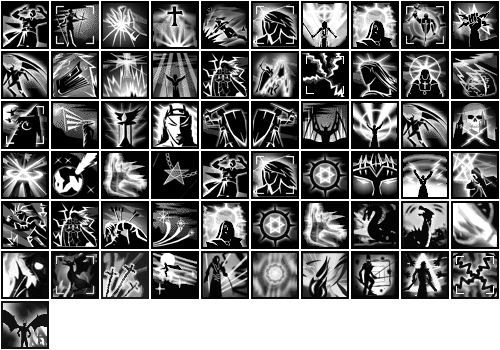
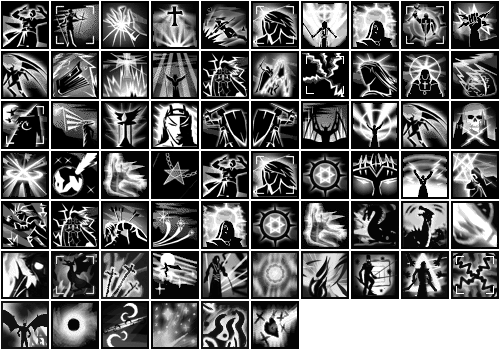
Updated skillplanner, about page

Changed region(s): [[0.09, 0.8571, 0.6, 1.0]]

diff --git a/MXLU_vXVc_Doc_v2.95/skillplanner/skills.js b/MXLU_vXVc_Doc_v2.95/skillplanner/skills.js
@@ -9,7 +9,7 @@
 	skillicons[3] = ["AncientBlood", "BearClaw", "BearStance", "BerserkFury", "Bloodhatred", "BloodHatred", "DefenderSpirit", "EagleDive", "EagleStance", "Earthquake", "Fortress", "GreaterManifestations", "GuardianSpirit", "GuardTower", "HawkTalons", "Immortal", "KrakenStance", "LionStance", "MountainKing", "NephalemWeapons", "Overkill", "Predator", "ProtectorSpirit", "Rebound", "Runemaster", "ScreamingEagle", "ShamanicTrance", "ShamansPath", "ShowerofRocks", "SnakeStance", "SpiritGuide", "SpiritWalk", "Stampede", "Stormblast", "Thundergod", "ThunderSlam", "TitanStrike", "WolfCompanion", "WolfStance", "Earthquake", "Stormblast", "Iceburst", "IronSpiral", "Deathgaze", "Daedalus", "Windform", ""]; //2+5 new
 	skillicons[4] = ["Blindside", "Brambles", "CallLeprechaun", "CallScavengers", "Cascade", "Charm", "CircleofLife", "CullingoftheHerd", "Cyclone", "Dominate", "EggTrap", "Elemental", "ElfinArrows", "ElfinWeapons", "Elvensong", "FaerieFire", "Ferocity", "FireFountain", "ForceofNature", "FreezingGale", "GammaField", "Goodberry", "Hailstorm", "Havoc", "HuntingBanshee", "IdolOfScosglen", "KillerInstinct", "LaughingGhost", "Lifeshield", "MarkoftheWild", "Mythal", "NovaShot", "PaganRites", "PlagueAvatar", "PoisonFlash", "Pummel", "QuillStorm", "RainofFire", "Rampage", "ShrineofExtinction", "SporeShot", "SummonAcidFiends", "ThornWall", "ThrilloftheHunt", "ToothandClaw", "TrapRatForm", "TreewardenForm", "Tremor", "Wildfire", "FreezingGale", "PoisonFlash", "TreewardenForm", "WerewolfForm", "ManaPulse", "Harbinger", "FeedthePack", "TwistedClaw", "Mythal", ""]; //2+7 new
 	skillicons[5] = ["AngelofDeath", "Bane", "BendtheShadows", "BendTheShadows", "BlackMass", "BloodTideTotem", "Buckshot", "Deathlord", "DeathsFuryTotem", "Deathstrike", "DeathWard", "DragonfireOil", "ElementalTotem", "Embalming", "ExplodingTotem", "Famine", "FireheartTotem", "FlametailShot", "FragmentationShot", "FrostclawTotem", "Graveyard", "HowlingTotem", "LicheForm", "ManaTideTotem", "Massacre", "NecromanticTrance", "OathbreakerTotem", "Parasite", "RathmasChosen", "Sacrifices", "Soulshatter", "StormeyeTotem", "SummonDarklings", "SummonJinn", "SummonLamia", "SummonRampagor", "SummonShadows", "SummonVeilKing", "SummonVoidArchon", "TalonsHold", "TotemboundGuardian", "TotemicMastery", "UnholyArmor", "UnholyPrayer", "VoodooShot", "Widowmaker", "Boneyard", "FuneralPyre", "RottingFlesh", "Nightwalker", "Pestilence", ""]; //0+5 new
-	skillicons[6] = ["BlackSleep", "BlessedLife", "BloodThorns", "Brimstone", "Colosseum", "DarkKing", "DivineApparition", "EdictofForbiddance", "GlitteringRegalia", "Hammerstrike", "HolyArmor", "HolyInsanity", "HolyTrap", "Hymn", "Judgement", "Lemures", "LightandShadow", "Lionheart", "Merkabah", "MindFlay", "Plague", "Punisher", "Rapture", "Resurrect", "Retaliate", "Retribute", "RingofLight", "RisingDawn", "SacredArmor", "Scourge", "SearingGlow", "SearingOrb", "Shadowfiends", "Slayer", "Sovereignty", "Stormlord", "Sunstorm", "Superbeast", "SymphonyOfDestruction", "TaintedBlood", "TerrorStrike", "VesselofJudgement", "Vindicate", "Wrath", "BlazingFury", "Winterstorm", "BlackSleep", "DragonOath", "Dragonshout", "Burnout", "Demonrend", "DevaKing", "VesselofRetribution", "SacredArmor", "Hoplite", "Dragonshout", "Burnout", "Demonrend", "Euphoria", "LifeandDeath", "Demiurge", ""]; //6+9 new
+	skillicons[6] = ["BlackSleep", "BlessedLife", "BloodThorns", "Brimstone", "Colosseum", "DarkKing", "DivineApparition", "EdictofForbiddance", "GlitteringRegalia", "Hammerstrike", "HolyArmor", "HolyInsanity", "HolyTrap", "Hymn", "Judgement", "Lemures", "LightandShadow", "Lionheart", "Merkabah", "MindFlay", "Plague", "Punisher", "Rapture", "Resurrect", "Retaliate", "Retribute", "RingofLight", "RisingDawn", "SacredArmor", "Scourge", "SearingGlow", "SearingOrb", "Shadowfiends", "Slayer", "Sovereignty", "Stormlord", "Sunstorm", "Superbeast", "SymphonyOfDestruction", "TaintedBlood", "TerrorStrike", "VesselofJudgement", "Vindicate", "Wrath", "BlazingFury", "Winterstorm", "BlackSleep", "DragonOath", "Dragonshout", "Burnout", "Demonrend", "DevaKing", "VesselofRetribution", "SacredArmor", "Hoplite", "Dragonshout", "Burnout", "Demonrend", "Euphoria", "LifeandDeath", "Demiurge", "SolarFlare", "Drakemaw", "FrozenBreath", "DragonWyrms", "Dragonheart", ""]; //6+9 new
 	skillicons[7] = ["Abyss", "ArcaneFury", "ArcaneTorrent", "Baneblade", "Bladestorm", "CarpetofSpiders", "Chronofield", "ColdFear", "DiseasedCattle", "Disintegrate", "Familiar", "FearofFire", "Firedance", "Flamefront", "Flamestrike", "ForceBlast", "ForkedLightning", "FrigidSphere", "FrozenSoul", "FullForce", "Hex", "Hive", "IceLance", "Illumination", "InnerFire", "LightningCascade", "LightningWall", "LivingFlame", "Lorenado", "ManaSweep", "Miasma", "Moonstrike", "MysticBlood", "NovaCharge", "Pyroblast", "ShattertheFlesh", "SnowQueen", "SpiralDance", "Starfire", "StaticOrb", "SummonIceElementals", "SymbolofEsu", "Tempest", "Thunderstone", "TimeField", "VengefulPower", "VenomousSpirit", "WarpArmor", "Wiccaning", "WitchBlood", "Bladestorm", "Chronofield", "WitchBlood", "NovaCharge", "FrigidSphere", "ArcaneTorrent", "Antimass", "Wraithsword", "Fusillade", "SummonBladeSpirits", ""]; //5+5 new
 	var skillnames_199d = new Array();
 	skillnames_199d[1] = new Array("", "Ghost Arrow", "Barrage", "Phalanx", "Trinity", "Wraith Arrow", "Triumphant Strike", "Prowl", "Pounce", "Lioness", "Lightswarm", "Starstreak", "Ricochet", "Enfilade", "Moon Warrior", "Fairy Ring", "Death Ray", "Bloodlust", "Bloodstorm", "Bacchanalia", "Magic Missiles", "Defensive Harmony", "Blood Elementals", "Balance", "Pact of Blood", "Wings of Wrath", "Curare", "Paragon", "Spirit of Vengeance", "Leadership", "War Spirit");
@@ -1964,3 +1964,12 @@
 	skillnames_uxvc[5]=new Array("","Deaths Fury Totem","Frostclaw Totem","Fireheart Totem","Howling Totem","Stormeye Totem","Embalming","Sacrifices","Bend the Shadows","Bane","Talons Hold","Summon Shadows","Summon Rampagor","Summon Lamia","Summon Veil King","Summon Void Archon","Boneyard", "Funeral Pyre", "Rotting Flesh", "Nightwalker", "Pestilence","Massacre","Angel of Death","Famine","Parasite","Deathlord","Buckshot","Flametail Shot","Dragonfire Oil","Fragmentation Shot","Voodoo Shot","Summon Jinn","Rathmas Chosen","Death Ward","Black Mass","Graveyard");
 	skillnames_uxvc[6]=new Array("","Retaliate","Hammerstrike","Merkabah","Lionheart","Colosseum","Vessel of Retribution","Rapture",Array("Solstice and Equinox",16,false),Array("Sacred Armor",2,true), "Hoplite","Dragon Oath",Array("Dragonshout",2,true),Array("Burnout",2,true),Array("Demonrend",2,true),"Deva King","Terror Strike","Lemures",Array("Black Sleep",2,true),"Blood Thorns","Hymn","Vessel of Judgement", "Euphoria", "Life and Death", "Demiurge","Scourge","Tainted Blood","Mind Flay","Symphony Of Destruction","Slayer","Stormlord","Superbeast","Plague","Resurrect","Divine Apparition","Blessed Life");
 	skillnames_uxvc[7]=new Array("","Flamefront","Living Flame","Flamestrike","Pyroblast","Firedance","Forked Lightning","Thunderstone","Tempest","Warp Armor",Array("Nova Charge",2,true),"Shatter the Flesh",Array("Frigid Sphere",2,true),"Snow Queen","Abyss","Summon Ice Elementals","Lorenado","Vengeful Power","Miasma","Carpet of Spiders","Hive",Array("Immersion",11,false),"Familiar",Array("Arcane Torrent",2,true),"Mana Sweep", "Antimass","Moonstrike","Wraithsword", "Fusillade", "Summon Blade Spirits",Array("Bladestorm",2,true),Array("Chronofield",2,true),Array("Witch Blood",2,true),"Baneblade","Symbol of Esu","Force Blast");
+	
+	var skillnames_uxvi=new Array();
+	skillnames_uxvi[1]=new Array("",Array("Sun Strike",2,true),"Barrage","Phalanx","Dragonlore","Wyrmshot","Moonbeam","Ricochet","Enfilade","Moon Queen","Fairy Ring","Takedown","Hyena Strike","Pounce","Lioness",Array("Great Hunt",2,true),"Magic Missiles","Balefire","Bloodstorm","Bacchanalia","Lava Pit", "Thundercrack", "Stormcall", "Hammer of Zerae", "Asterism", "Magnetic Field", "Wild and Free","Summon Fire Elementals","Balance",Array("Ecstatic Frenzy",2,true),"Defensive Harmony","Curare","Paragon","Spirit of Vengeance","Spellbind",Array("War Spirit",2,true));
+	skillnames_uxvi[2]=new Array("",Array("Batstrike",2,true),"Crucify", "Shadow Dancer","Barrier Strike", "Noctule","Scorpion Blade","Storm Crows","Wychwind","Maelstrom5","Broadside", "Backstab","Shadow Refuge","Twin Fang Strike","Laserblade","Hades Gate","Blink","Way of the Spider","Queen of Blades","Way of the Phoenix","Perfect Being", "Obliteration","Shuriken Flurry",Array("Psionic Storm",3,true),"Singularity","Doom","Cluster Mine","Limpet Laser",Array("Electrofield Sentry",2,true),Array("Fireball Sentry",2,true),"Tiefling Form","Beacon","Way of the Gryphon","Phase Bomb","Vampiric Icon","Psychic Scream");
+	skillnames_uxvi[3]=new Array("",Array("Earthquake",2,true), "Iceburst","Thunder Slam","Shower of Rocks",Array("Stormblast",2,true),"Bloodhatred", "Iron Spiral", "Deathgaze", "Daedalus", "Windform","Bear Claw","Stampede","Rebound","Screaming Eagle","Overkill","Guardian Spirit","Defender Spirit","Protector Spirit","Greater Manifestations","Spirit Walk","Wolf Companion","Ancient Blood","Fortress","Spirit Guide","Mountain King","Lion Stance","Snake Stance","Bear Stance","Eagle Stance","Wolf Stance","Nephalem Weapons","Runemaster","Shamanic Trance","Immortal","Thundergod");
+	skillnames_uxvi[4]=new Array("",Array("Treewarden Form",2,true),"Pummel","Wildfire","Circle of Life","Idol Of Scosglen","Trap Rat Form","Quill Storm","Egg Trap","Ferocity","Thorn Wall","Werewolf Form", "Mana Pulse", "Harbinger", "Feed the Pack", "Twisted Claw","Elemental","Hunting Banshee","Pagan Rites","Rain of Fire",Array("Freezing Gale",2,true),Array("Poison Flash",2,true),"Elvensong","Plague Avatar",Array("Mythal",2,true),"Summon Acid Fiends","Laughing Ghost","Cascade","Spore Shot","Elfin Weapons","Nova Shot","Force of Nature","Faerie Fire","Tremor","Goodberry","Lifeshield");
+	skillnames_uxvi[5]=new Array("","Deaths Fury Totem","Frostclaw Totem","Fireheart Totem","Howling Totem","Stormeye Totem","Embalming","Sacrifices","Bend the Shadows","Bane","Talons Hold","Summon Shadows","Summon Rampagor","Summon Lamia","Summon Veil King","Summon Void Archon","Boneyard", "Funeral Pyre", "Rotting Flesh", "Nightwalker", "Pestilence","Massacre","Angel of Death","Famine","Parasite","Deathlord","Buckshot","Flametail Shot","Dragonfire Oil","Fragmentation Shot","Voodoo Shot","Summon Jinn","Rathmas Chosen","Death Ward","Black Mass","Graveyard");
+	skillnames_uxvi[6]=new Array("","Retaliate","Hammerstrike","Plague","Dragonheart","Colosseum","Vessel of Retribution","Rapture",Array("Solstice and Equinox",16,false),Array("Sacred Armor",2,true), "Hoplite","Solar Flare","Drakemaw","Frozen Breath",Array("Incarnation",51,false),"Dragon Wyrms","Terror Strike","Lemures",Array("Black Sleep",2,true),"Blood Thorns","Hymn","Vessel of Judgement", "Euphoria", "Life and Death", "Demiurge","Scourge","Tainted Blood","Mind Flay","Symphony Of Destruction","Slayer","Stormlord","Superbeast",Array("Dragonknight",47,false),"Resurrect","Divine Apparition","Blessed Life");
+	skillnames_uxvi[7]=new Array("","Flamefront","Living Flame","Flamestrike","Pyroblast","Firedance","Forked Lightning","Thunderstone","Tempest","Warp Armor",Array("Nova Charge",2,true),"Shatter the Flesh",Array("Frigid Sphere",2,true),"Snow Queen","Abyss","Summon Ice Elementals","Lorenado","Vengeful Power","Miasma","Carpet of Spiders","Hive",Array("Immersion",11,false),"Familiar",Array("Arcane Torrent",2,true),"Mana Sweep", "Antimass","Moonstrike","Wraithsword", "Fusillade", "Summon Blade Spirits",Array("Bladestorm",2,true),Array("Chronofield",2,true),Array("Witch Blood",2,true),"Baneblade","Symbol of Esu","Force Blast");

diff --git a/MXLU_vXVc_Doc_v2.95/skillplanner/index.html b/MXLU_vXVc_Doc_v2.95/skillplanner/index.html
@@ -70,7 +70,7 @@
 	However, you can save your skill-plan, so you can look at it later, show it to your friends or link it in your guide. Just enter a name, hit the save button, then follow the instructions.</li>
 
 	<li><b>Q: Can I use this tool offline?</b><br />
-	A: Sure. Hit "File" -&gt; "Save Page As" to make a local copy. You can also download <a href="http://docs.median-xl.com/MXLU_vXVc_Doc_v2.95.zip" target="_blank">Full documentation in HTML format</a> which includes this calculator.</li>
+	A: Sure. Hit "File" -&gt; "Save Page As" to make a local copy. You can also download <a href="http://docs.median-xl.com/MXLU_vXVI_Doc_v2.96.zip" target="_blank">Full documentation in HTML format</a> which includes this calculator.</li>
 
 	<li><b>Q: How much damage will my skills do?</b><br />
 	A: I don't know, and my planner can't tell you.</li>
@@ -127,7 +127,8 @@
 					<option value="2012005">2012 v005</option>
 					<option value="uxi">Ultimative XI</option>
 					<option value="uxiii">Ultimative XIII</option>
-					<option value="uxvc" selected="selected">Ultimative XVc</option>
+					<option value="uxvc">Ultimative XVc</option>
+					<option value="uxvi" selected="selected">Ultimative XVI</option>
 				</select>
 	<select name="class" size="1" onchange="changeClass()">
 					<option value="1">Amazon</option>
@@ -256,7 +257,7 @@
 	<tr><td colspan="4"> </td></tr>
 	</table></td></tr>
 	</table>
-	<div class="copy">Version 1.14, Script &copy; 2010-2012 <a href="http://www.authmann.de/d2/mxl/skillpointplanner/" target="_blank">Tub</a>. Updated 2012-2015 by <a href='http://forum.median-xl.com/memberlist.php?mode=viewprofile&u=49' target="_blank">Quirinus</a>.<br>Median XL and all Skill Icons &copy; <a href="http://modsbylaz.vn.cz/" target="_blank">Brother Laz</a>. Ultimative and most Skill Icons &copy; <a href='http://forum.median-xl.com/memberlist.php?mode=viewprofile&u=2' target="_blank">MarcoNecroX</a>, some Skill Icons &copy; <a href='http://forum.median-xl.com/memberlist.php?mode=viewprofile&u=71' target="_blank">Inertia</a>.<br />
+	<div class="copy">Version 1.14, Script &copy; 2010-2012 <a href="http://www.authmann.de/d2/mxl/skillpointplanner/" target="_blank">Tub</a>. Updated 2012-2016 by <a href='http://forum.median-xl.com/memberlist.php?mode=viewprofile&u=49' target="_blank">Quirinus</a>.<br>Median XL and all Skill Icons &copy; <a href="http://modsbylaz.vn.cz/" target="_blank">Brother Laz</a>. Ultimative and most Skill Icons &copy; <a href='http://forum.median-xl.com/memberlist.php?mode=viewprofile&u=2' target="_blank">MarcoNecroX</a>, some Skill Icons &copy; <a href='http://forum.median-xl.com/memberlist.php?mode=viewprofile&u=71' target="_blank">Inertia</a>.<br />
 	Please send bug reports and feedback to <a href="http://forum.median-xl.com/viewtopic.php?f=25&t=450" target="_blank">this thread</a>.</div>
 
 	</form>

diff --git a/MXLU_vXVc_Doc_v2.95/skillplanner/skillpointcalc_ru.js b/MXLU_vXVc_Doc_v2.95/skillplanner/skillpointcalc_ru.js
@@ -141,8 +141,8 @@
 	var classnames_readable = new Array("", "Амазонка","Ассассин","Варвар","Друид","Некромант","Паладин","Колдунья");
 	var skillnames;
 	var func_constraints;
-	var SKILLICONS_VERSION = "uxiii";
-	var CURRENT_PATCH = "uxiii";
+	var SKILLICONS_VERSION = "uxvi";
+	var CURRENT_PATCH = "uxvi";
 	var CURRENT_PATCH_READABLE;
 	var IS_1E9_OR_NEWER = true;
 	var IS_OMEGA = true;
@@ -517,6 +517,28 @@
 			skillnames = skillnames_uxvc;
 			func_constraints = check_constraints_uxvc;
 			break
+		case "uxvi":
+			hide("ac500_row");
+			uncheck("ac500");
+			hide("windowsinhell");
+			show("minigamerow");
+			show("signetofskillrow");
+			show("enneadplusone");
+			set("toraja_bonus", "1");
+			getFormElement("q7").value = 1;
+			
+			show("laz_upg");
+			show("khanduran");
+			show("feels");
+			check("q10");
+			uncheck("q11");
+			uncheck("q12");
+			
+			show("xvc_skills");
+			
+			skillnames = skillnames_uxvi;
+			func_constraints = check_constraints_uxvc;
+			break
 		}
 		changeClass()
 	}
@@ -546,7 +568,7 @@
 		{
 			hide("energy_row")
 		}
-		if (CURRENT_PATCH == "uxvc")
+		if (CURRENT_PATCH == "uxvc" || CURRENT_PATCH == "uxvi")
 		{
 			skill_number = 35;
 		}
@@ -628,7 +650,7 @@
 						b = current_name[1];
 						if (f)
 						{
-							if ((b < 0) || (b >skill_number))
+							if (b < 0)
 							{
 								f.style.backgroundColor = "red";
 								f.style.backgroundImage = "none";
@@ -804,7 +826,7 @@
 				slvlitembonus += get("q" + e)
 			}
 		}
-		if (CURRENT_PATCH == "uxvc")
+		if (CURRENT_PATCH == "uxvc" || CURRENT_PATCH == "uxvi")
 		{
 			skill_number = 35;
 		}
@@ -880,7 +902,7 @@
 	{
 		var a, d, b, c;
 		slvlskillbonus = 0;
-		if (CURRENT_PATCH == "uxvc")
+		if (CURRENT_PATCH == "uxvc" || CURRENT_PATCH == "uxvi")
 		{
 			skill_number = 35;
 		}
@@ -1043,7 +1065,7 @@
 	function resetSkills()
 	{
 		var a;
-		if (CURRENT_PATCH == "uxvc")
+		if (CURRENT_PATCH == "uxvc" || CURRENT_PATCH == "uxvi")
 		{
 			skill_number = 35;
 		}
@@ -1163,7 +1185,7 @@
 			return
 		}
 		p = l.slice(7).split("_");
-		if (CURRENT_PATCH == "uxvc")
+		if (CURRENT_PATCH == "uxvc" || CURRENT_PATCH == "uxvi")
 		{
 			skill_number = 35;
 		}
@@ -1254,7 +1276,7 @@
 			b += "&energy=" + energy
 		}
 		b += "&skills=";
-		if (CURRENT_PATCH == "uxvc")
+		if (CURRENT_PATCH == "uxvc" || CURRENT_PATCH == "uxvi")
 		{
 			skill_number = 35;
 		}

diff --git a/MXLU_vXVc_Doc_v2.95/skillplanner/skillpointcalc.js b/MXLU_vXVc_Doc_v2.95/skillplanner/skillpointcalc.js
@@ -141,8 +141,8 @@
 	var classnames_readable = new Array("", "Amazon", "Assassin", "Barbarian", "Druid", "Necromancer", "Paladin", "Sorceress");
 	var skillnames;
 	var func_constraints;
-	var SKILLICONS_VERSION = "uxiii";
-	var CURRENT_PATCH = "uxiii";
+	var SKILLICONS_VERSION = "uxvi";
+	var CURRENT_PATCH = "uxvi";
 	var CURRENT_PATCH_READABLE;
 	var IS_1E9_OR_NEWER = true;
 	var IS_OMEGA = true;
@@ -517,6 +517,28 @@
 			skillnames = skillnames_uxvc;
 			func_constraints = check_constraints_uxvc;
 			break
+		case "uxvi":
+			hide("ac500_row");
+			uncheck("ac500");
+			hide("windowsinhell");
+			show("minigamerow");
+			show("signetofskillrow");
+			show("enneadplusone");
+			set("toraja_bonus", "1");
+			getFormElement("q7").value = 1;
+			
+			show("laz_upg");
+			show("khanduran");
+			show("feels");
+			check("q10");
+			uncheck("q11");
+			uncheck("q12");
+			
+			show("xvc_skills");
+			
+			skillnames = skillnames_uxvi;
+			func_constraints = check_constraints_uxvc;
+			break
 		}
 		changeClass()
 	}
@@ -546,7 +568,7 @@
 		{
 			hide("energy_row")
 		}
-		if (CURRENT_PATCH == "uxvc")
+		if (CURRENT_PATCH == "uxvc" || CURRENT_PATCH == "uxvi")
 		{
 			skill_number = 35;
 		}
@@ -628,7 +650,7 @@
 						b = current_name[1];
 						if (f)
 						{
-							if ((b < 0) || (b >skill_number))
+							if (b < 0)
 							{
 								f.style.backgroundColor = "red";
 								f.style.backgroundImage = "none";
@@ -804,7 +826,7 @@
 				slvlitembonus += get("q" + e)
 			}
 		}
-		if (CURRENT_PATCH == "uxvc")
+		if (CURRENT_PATCH == "uxvc" || CURRENT_PATCH == "uxvi")
 		{
 			skill_number = 35;
 		}
@@ -880,7 +902,7 @@
 	{
 		var a, d, b, c;
 		slvlskillbonus = 0;
-		if (CURRENT_PATCH == "uxvc")
+		if (CURRENT_PATCH == "uxvc" || CURRENT_PATCH == "uxvi")
 		{
 			skill_number = 35;
 		}
@@ -1043,7 +1065,7 @@
 	function resetSkills()
 	{
 		var a;
-		if (CURRENT_PATCH == "uxvc")
+		if (CURRENT_PATCH == "uxvc" || CURRENT_PATCH == "uxvi")
 		{
 			skill_number = 35;
 		}
@@ -1163,7 +1185,7 @@
 			return
 		}
 		p = l.slice(7).split("_");
-		if (CURRENT_PATCH == "uxvc")
+		if (CURRENT_PATCH == "uxvc" || CURRENT_PATCH == "uxvi")
 		{
 			skill_number = 35;
 		}
@@ -1254,7 +1276,7 @@
 			b += "&energy=" + energy
 		}
 		b += "&skills=";
-		if (CURRENT_PATCH == "uxvc")
+		if (CURRENT_PATCH == "uxvc" || CURRENT_PATCH == "uxvi")
 		{
 			skill_number = 35;
 		}

diff --git a/MXLU_vXVc_Doc_v2.95/skillplanner/index_ru.html b/MXLU_vXVc_Doc_v2.95/skillplanner/index_ru.html
@@ -126,7 +126,8 @@
 					<option value="2012005">2012 v005</option>
 					<option value="uxi">Ultimative XI</option>
 					<option value="uxiii">Ultimative XIII</option>
-					<option value="uxvc" selected="selected">Ultimative XVc</option>
+					<option value="uxvc">Ultimative XVc</option>
+					<option value="uxvi" selected="selected">Ultimative XVI</option>
 				</select>
 	<select name="class" size="1" onchange="changeClass()">
 					<option value="1">Амазонка</option>
@@ -255,7 +256,7 @@
 	<tr><td colspan="4"> </td></tr>
 	</table></td></tr>
 	</table>
-	<div class="copy">Версия 1.14, Скрипт &copy; 2010-2012 <a href="http://www.authmann.de/d2/mxl/skillpointplanner/" target="_blank">Tub</a>. Обновлен в 2012-2015 <a href='http://www.medianxl.com/u530' target="_blank">Quirinus</a>'ом.<br>Median XL и все иконки навыков &copy; <a href="http://modsbylaz.vn.cz/" target="_blank">Brother Laz</a>. Ultimative и большинство иконок навыков &copy; <a href='http://www.medianxl.com/u1' target="_blank">MarcoNecroX</a>, некоторые иконки навыков &copy; <a href='http://www.medianxl.com/u22' target="_blank">Inertia</a>.<br />
+	<div class="copy">Версия 1.14, Скрипт &copy; 2010-2012 <a href="http://www.authmann.de/d2/mxl/skillpointplanner/" target="_blank">Tub</a>. Обновлен в 2012-2016 <a href='http://www.medianxl.com/u530' target="_blank">Quirinus</a>'ом.<br>Median XL и все иконки навыков &copy; <a href="http://modsbylaz.vn.cz/" target="_blank">Brother Laz</a>. Ultimative и большинство иконок навыков &copy; <a href='http://www.medianxl.com/u1' target="_blank">MarcoNecroX</a>, некоторые иконки навыков &copy; <a href='http://www.medianxl.com/u22' target="_blank">Inertia</a>.<br />
 	Пожалуйста, направляйте все отзывы и отчёты об ошибках на английском в <a href="http://www.medianxl.com/t3217-mxl-u-xiv-b-docs-v293" target="_blank">эту тему</a>.</div>
 
 	</form>

diff --git a/MXLU_vXVc_Doc_v2.95/about.html b/MXLU_vXVc_Doc_v2.95/about.html
@@ -23,7 +23,7 @@
 		<p class="gensmall">Download</p>
 
 		<p class="content">Or you can download the offline HTML version of the current documentation version here:<br /><br />
-		<u><a href="http://docs.median-xl.com/MXLU_vXVc_Doc_v2.96.zip">HTML Documentation v2.96 for MXL: Ultimative XVc.zip</a></u></p>
+		<u><a href="http://docs.median-xl.com/MXLU_vXVI_Doc_v2.96.zip">HTML Documentation v2.96 for MXL: Ultimative XVI.zip</a></u></p>
 
 		<p class="gensmall">Changes</p>
 		
